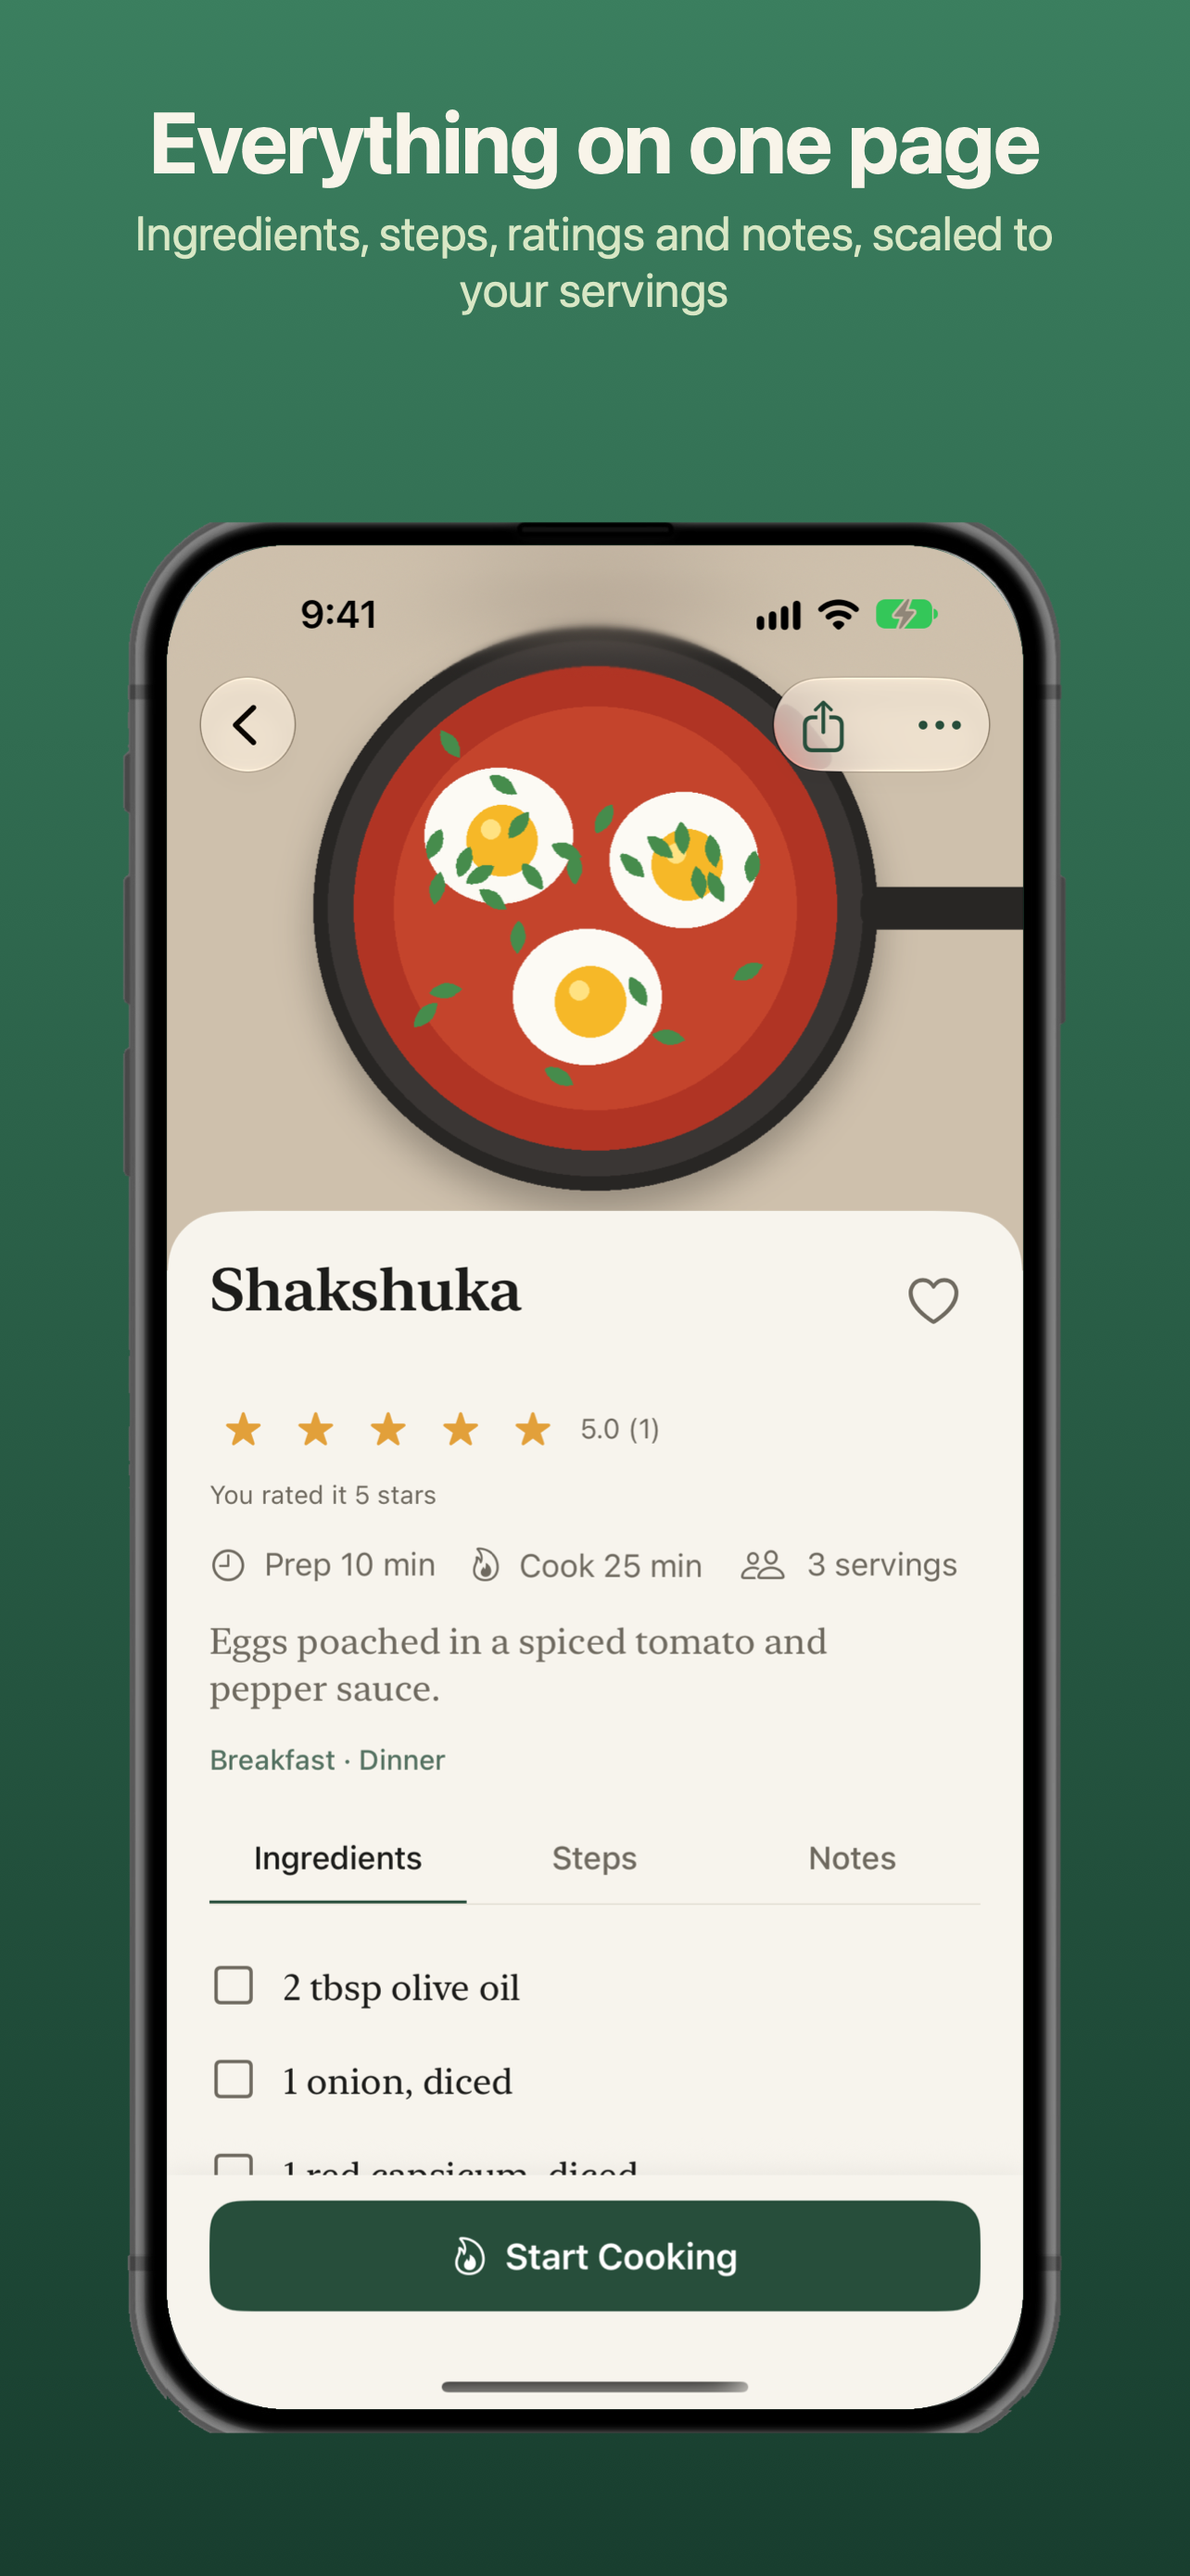
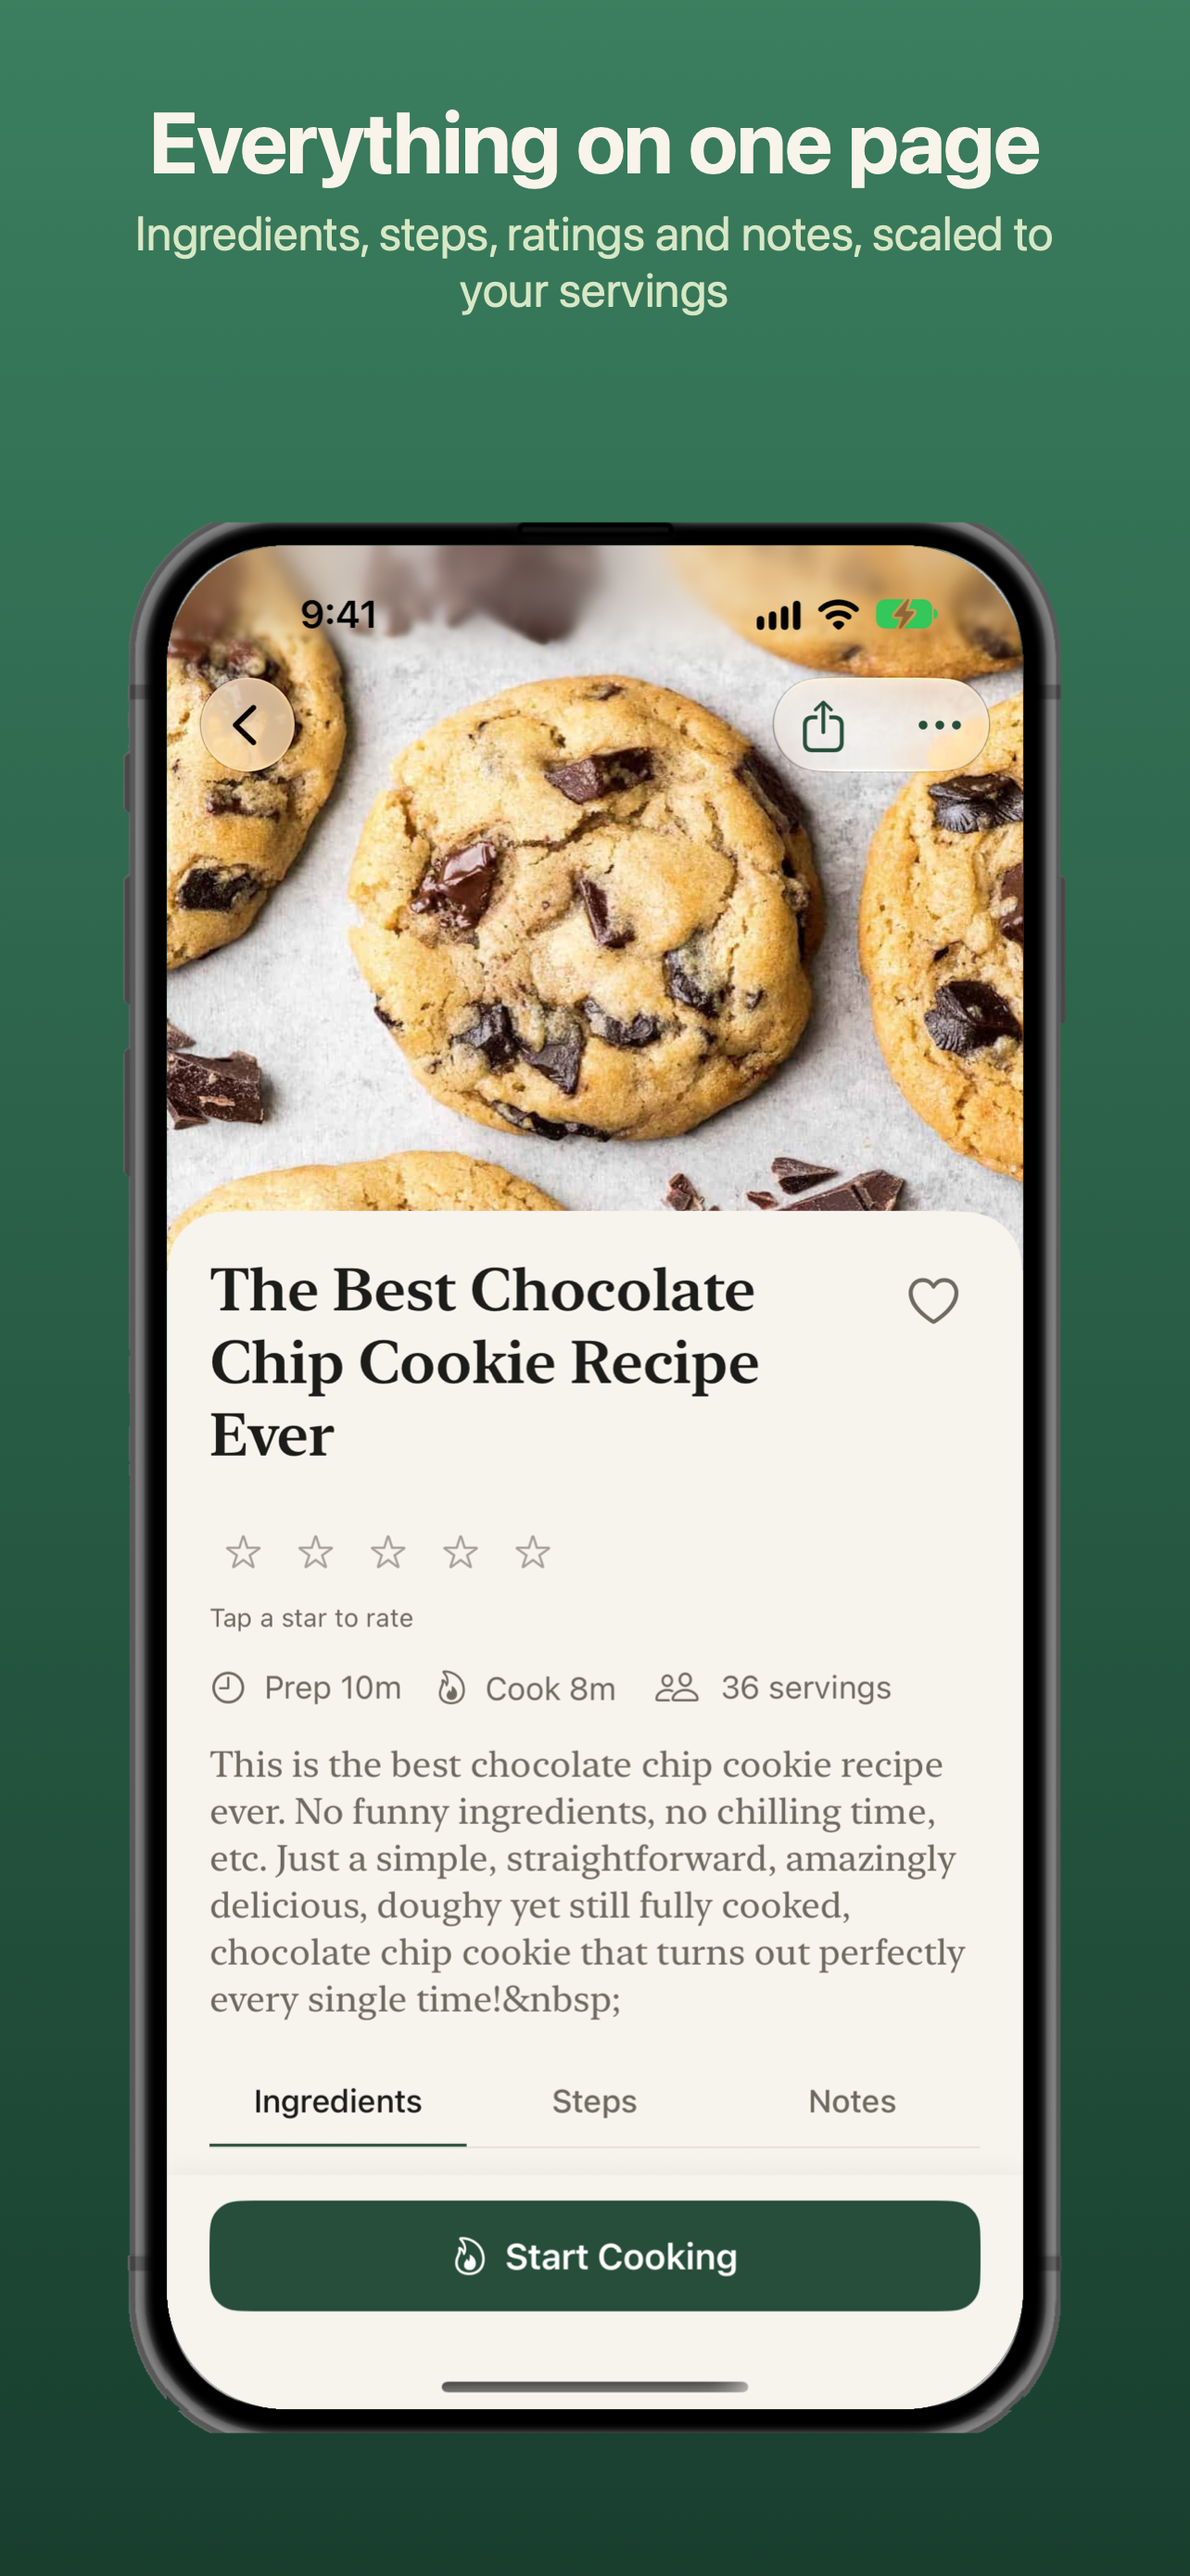
App Store screenshots from a real library; keep seeded-demo captures as raw-demo

diff --git a/IOS/AppStore/Screenshots/README.md b/IOS/AppStore/Screenshots/README.md
@@ -1,7 +1,7 @@
 # App Store screenshots (iPhone only)
 
-- `raw/` – untouched simulator captures (iPhone 18 Pro, 1206×2622, light mode, status bar forced to 9:41) from a server seeded with `tools/seed_demo.py`.
-- `iphone-6.9/` (1320×2868, required) and `iphone-6.5/` (1284×2778) – the finished slides, ten each. Upload in filename order.
+- `raw/` – untouched simulator captures of a real library (iPhone 18 Pro, 1206×2622, light mode, 9:41 status bar). `raw-demo/` holds the earlier set from the seeded demo server (`tools/seed_demo.py`), which also has collections, meal plan and shopping shots.
+- `iphone-6.9/` (1320×2868, required) and `iphone-6.5/` (1284×2778) – the finished slides, eight each. Upload in filename order.
 - `frame.swift` + `assets/` – the framer (forest-green ground, cream captions, photographic iPhone frame), adapted from the ShelfHead set.
 - `generate.sh` – rebuilds every slide and holds the captions:
   `DEVELOPER_DIR=/Applications/Xcode.app/Contents/Developer ./generate.sh`
